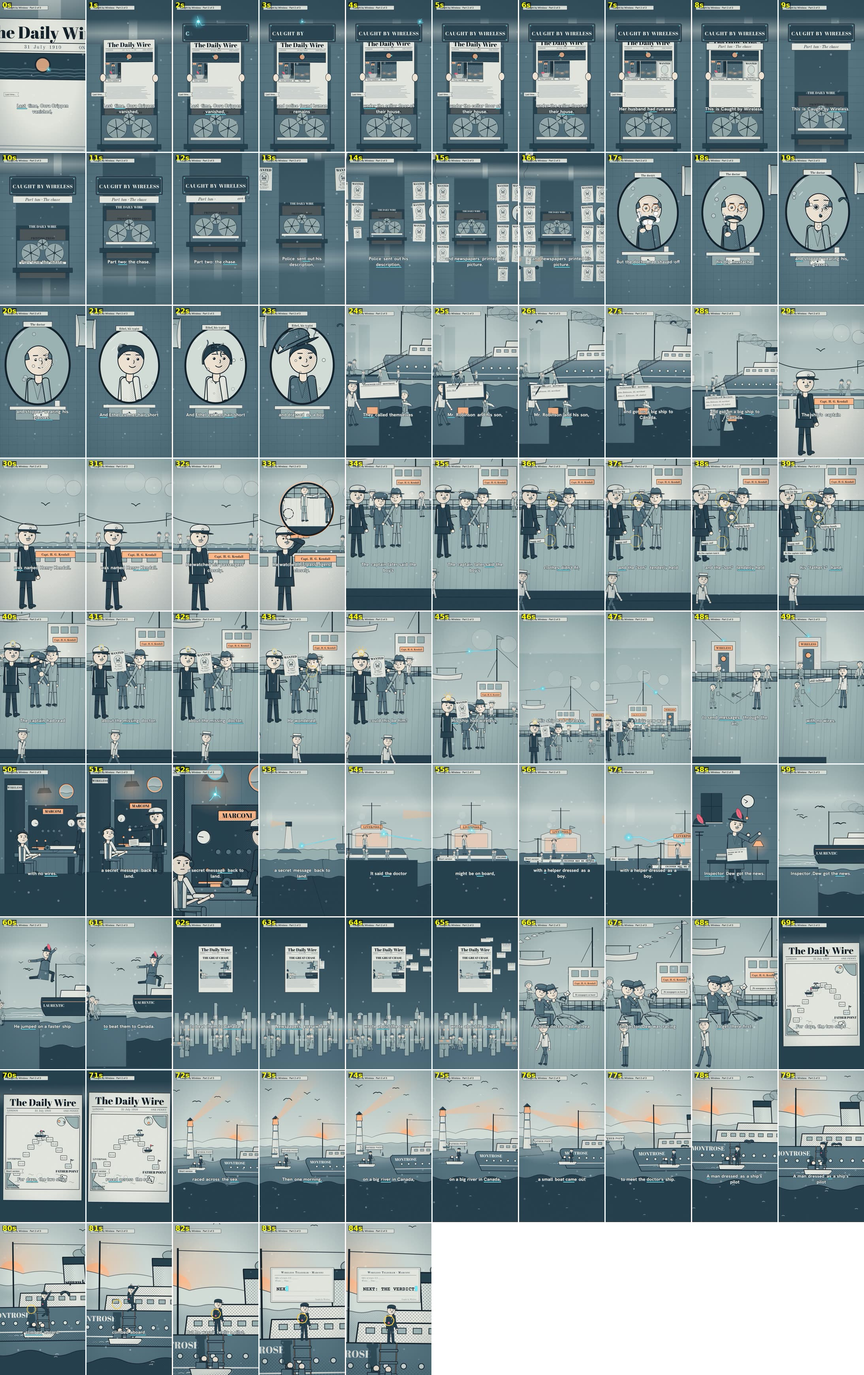
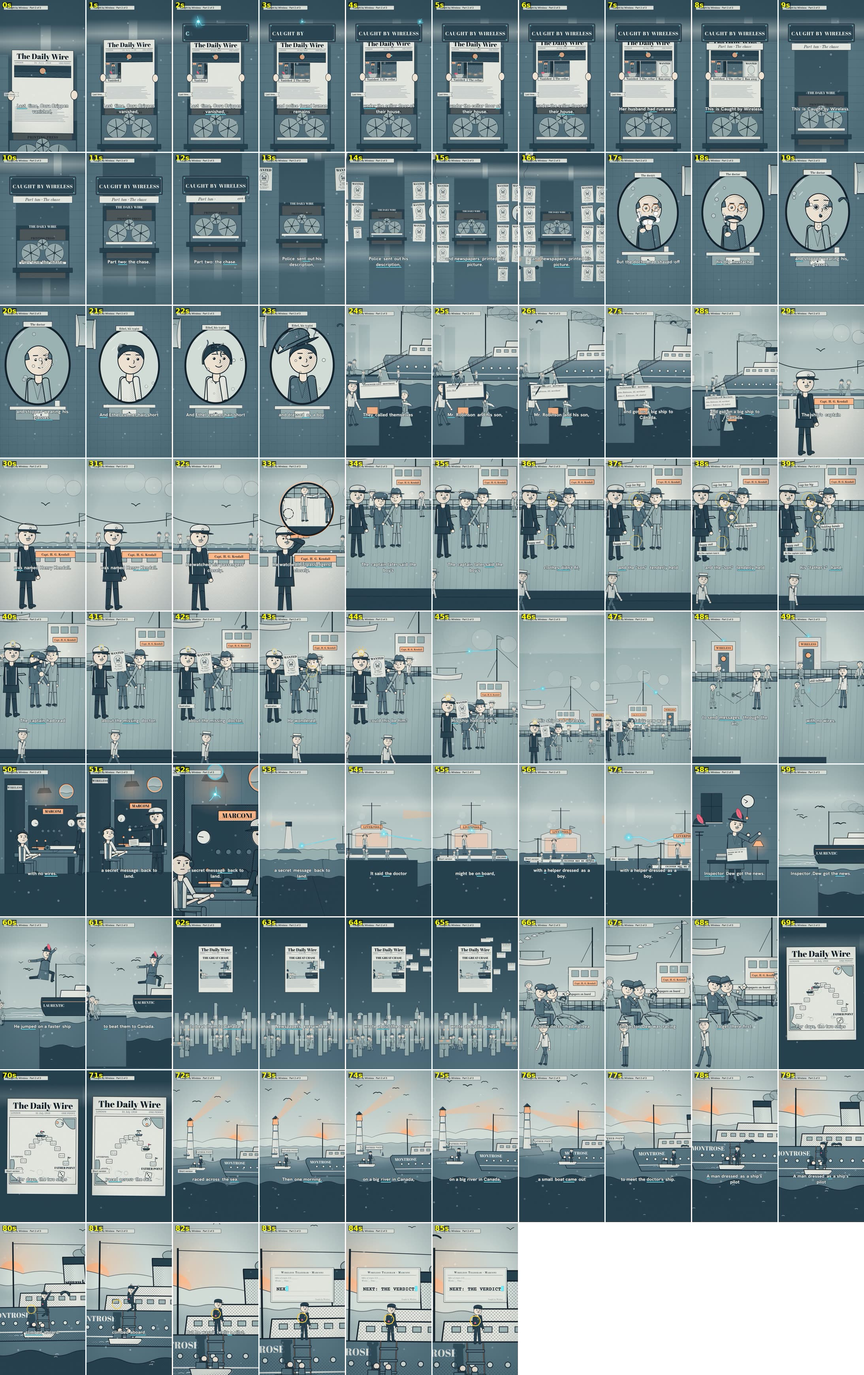
Wireless 2 v1.1 delivered: continuity-early fixes (86.4 s, -14 LUFS, motion PASS); sheet, heroes, REPORT

diff --git a/projects/wireless-2/REPORT.md b/projects/wireless-2/REPORT.md
@@ -1,4 +1,29 @@
-# Caught by Wireless, Part 2: "The chase": report (v1)
+# Caught by Wireless, Part 2: "The chase": report
+
+## v1.1 (current): continuity-early fixes, 2026-11-08 04:21–04:30 UTC
+**Final file:** `projects/wireless-2/renders/wireless-2_v1.1.mp4` (git-ignored; delivered with SendUserFile).
+**2592 frames = 86.40 s, −14.0 LUFS, −2.8 dBTP.** motion_check on the final (quarter downscale): **PASS**, median movers
+19 vs bar 18, still 38 % (bar 36 %). Made by partial re-render of frames 0–300, 1060–1380, 1960–2180 and 2483–2591,
+spliced into the v1 silent master with the concat filter (frame count checked: 2592; seams at 300/301, 1059/1060,
+1380/1381, 1959/1960, 2180/2181, 2482/2483 inspected, continuous). Stills replaced: `stills/sheet_1fps.jpg`,
+`hero_3.9s.jpg`, `hero_43.5s.jpg`, `hero_86.3s.jpg` (was `hero_84.9s.jpg`); R4/R5 unchanged.
+
+| # | Orchestrator point | v1 | v1.1 |
+|---|---|---|---|
+| 1 | Crippen B after the razor; try-on gag on the photo or tagged | Crippen B from the shave on (bare lip, no glasses), but the Moustache tries itself on Robinson's face untagged | Kept the gag, tagged **"Illustration"** for its whole length (42.2–44.6 s); the captain's comparison is with the WANTED photo |
+| 2 | Paper ≤ ~75 % of frame; no near-empty dark wireless frames; no dissolves | Frame 0 opened at zoom 3.4 on the page (100 % paper); race-map page ~72 % | Opening zoom 1.35 (page ~55 %, the harbour, press and fog around it); race-map page scaled 1.55 → 1.4 (~55 %). Wireless hops always have a ship, coast or gulls in frame; hand-offs are push-throughs, no dissolves |
+| 3 | Labels ≥ 34 px, y ≤ 1250, never on faces, not over the tab | Recap panel labels ~21 px, clue labels 30 px, deck notice 24 px; "cap too big" next to the captain's face | Panel labels 36 px ("Vanished", "The cellar", "Ran away"), clue labels 36 px, notice 34 px; "cap too big" moved above Ethel's cap, clear of faces. Kit HonestyTags at y 1170 (kit size) |
+| 4 | End card ≥ 2 s fully typed | Typed by ~84.4 s, only 0.8 s before the end | Tail 2.45 → 3.65 s: card slides up after the last word, types (1.5 s), then holds fully typed 2.0 s |
+| 5 | Last frame = pilot-cap close-up at the rail | yes | unchanged framing (same final camera key) |
+| 6 | Ethel never behind bars, never ringed as a culprit | Rings on her cap, trouser cuff and the held hands (objects/clothing), never her face | unchanged |
+| 7 | ~10 dB music gap is the series standard | +10 dB, ≈10 dB under speech | unchanged |
+
+Kit d560fa2 `DeckChair` (additive) not taken: the deck-chair shot already seats both characters in the kit MontroseDeck's
+own chairs; adding `chair` would draw a second chair.
+
+---
+
+# v1 report (superseded by v1.1 above)
 
 **Final file:** `projects/wireless-2/renders/wireless-2_v1.mp4`. It is git-ignored and was delivered with SendUserFile.
 - 1080×1920, 30 fps, **2556 frames = 85.20 s**. The last word ends at 82.77 s, followed by a 2.45 s tail for the end card. That is inside the series range of 70–89 s.

diff --git a/projects/wireless-2/film/PLAN.md b/projects/wireless-2/film/PLAN.md
@@ -102,3 +102,5 @@ fact-checked; 16 lines). Unattended: every decision is recorded here.
 | 04:08 | Full render (4 chunks of 700, concurrency 3) + mix (kit series_sfx for 69 of 90 cues) + loudness |
 | 04:13 | Final: 2556 frames = 85.20 s, −14.0 LUFS, −2.6 dBTP; motion_check on the quarter downscale **PASS** (median 19 vs 18) |
 | 04:15 | Stills (sheet_1fps, 3 heroes, R4/R5 for part 3), temporal check, delivered with SendUserFile; REPORT.md |
+| 04:21 | Orchestrator continuity-early points received. Applied: "Illustration" tag on the try-on gag, opening zoom 1.35 (page ≤ 75 %), race page 1.4, labels ≥ 34 px, end-card tail 3.65 s (2 s fully typed) |
+| 04:30 | v1.1: partial re-renders spliced (concat filter), 2592 frames checked, −14.0 LUFS / −2.8 dBTP, motion PASS (19 vs 18); delivered |
